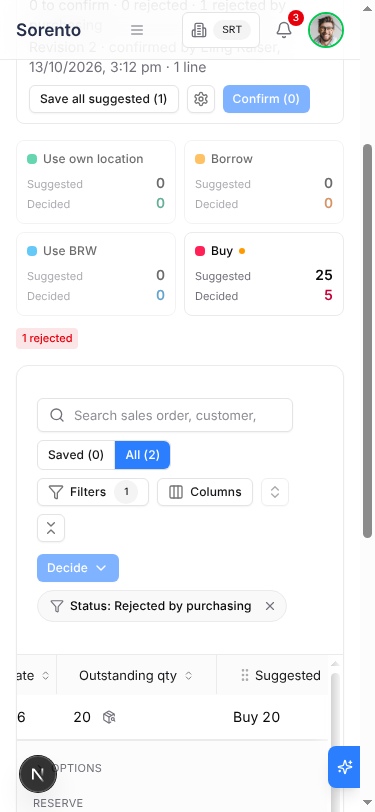
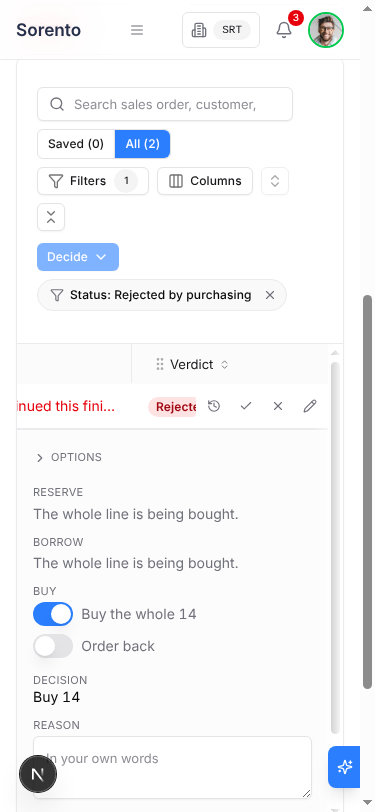
fix(scm): Decided cell leads with the refusal reason; board evidence refreshed [skip ci]
Claude-Session: https://claude.ai/code/session_01AT5DZgi3peVEvfsd9vK7ke

diff --git a/sorento_crm_frontend/app/(protected)/project-sales/fulfilment-planning/components/FulfilmentBoardListView.tsx b/sorento_crm_frontend/app/(protected)/project-sales/fulfilment-planning/components/FulfilmentBoardListView.tsx
@@ -852,7 +852,8 @@ export function FulfilmentBoardListView({
             // on this same row - truncated, the whole sentence as the tooltip - rather than
             // "Not decided" beside a pill nobody can read at this width.
             if (contribution.order_inquiry?.ack_state === 'rejected') {
-              const line = `Rejected by purchasing: ${purchasingRefusalLine(contribution.order_inquiry)}`;
+              // The reason first: the pill beside it already says who refused the line.
+              const line = purchasingRefusalLine(contribution.order_inquiry);
               return (
                 <span
                   data-testid={`decided-purchasing-rejected-${contribution.key}`}

diff --git a/sorento_crm_frontend/app/(protected)/project-sales/fulfilment-planning/components/FulfilmentBoardListView.test.tsx b/sorento_crm_frontend/app/(protected)/project-sales/fulfilment-planning/components/FulfilmentBoardListView.test.tsx
@@ -2602,7 +2602,7 @@ describe('FulfilmentBoardListView: a line purchasing refused (PR 1622)', () => {
     renderView({ contributions: [refused] });
     const cell = await screen.findByTestId('decided-purchasing-rejected-so-1:line-10');
     expect(cell.textContent).toMatch(
-      /^Rejected by purchasing: Supplier discontinued this finish \(Joey, 13\/10\/2026, 2:05\s?pm\)$/i,
+      /^Supplier discontinued this finish \(Joey, 13\/10\/2026, 2:05\s?pm\)$/i,
     );
     expect(cell).toHaveClass('truncate');
     expect(cell.getAttribute('title')).toMatch(/^Rejected by Joey on 13\/10\/2026/);
